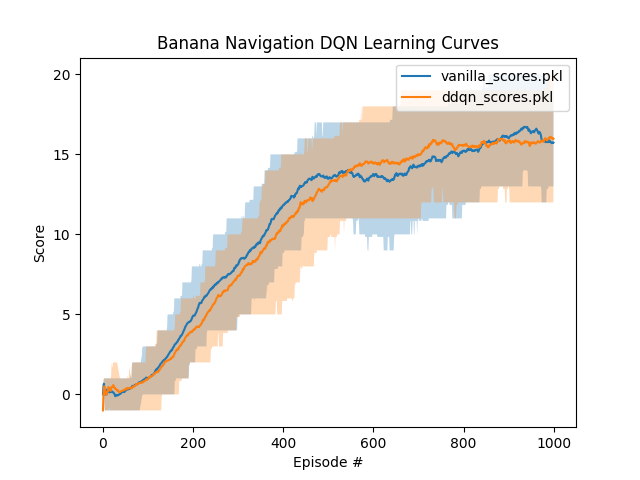
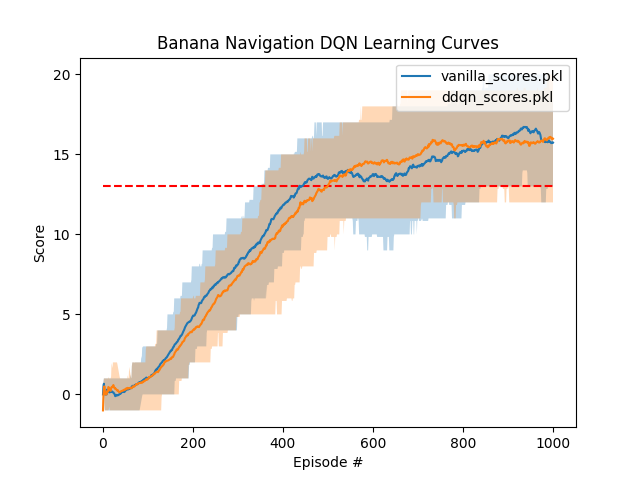
updating report

diff --git a/p1_navigation/training_analysis.py b/p1_navigation/training_analysis.py
@@ -3,7 +3,7 @@ import pickle
 import matplotlib.pyplot as plt
 import sys
 
-def plot_results(scores_list, window_len=100):
+def plot_results(scores_list, threshold=13.0, window_len=100):
     """ Plot and analyze training results
 
     Params
@@ -35,6 +35,8 @@ def plot_results(scores_list, window_len=100):
         # ax.fill_between(np.arange(len(scores)), mv_avg-mv_std, mv_avg+mv_std, alpha=0.3)
         ax.fill_between(np.arange(len(scores)), mv_q16, mv_q84, alpha=0.3)
 
+    # plot success threshold
+    plt.hlines(threshold, 0, len(scores), colors='r', linestyles='dashed')
     plt.title('Banana Navigation DQN Learning Curves')
     plt.ylabel('Score')
     plt.xlabel('Episode #')

diff --git a/p1_navigation/Report.md b/p1_navigation/Report.md
@@ -43,4 +43,10 @@ The following hyperparameters were used during training:
 
 ![DQN Learning Curves][image1]
 
+In the above plot we see the results of training a "vanilla" Deep Q-Network agent as well as a Double Deep Q-Network (DDQN). The trend lines show the moving average reward over the last 100 episodes with the shaded region indicating the range between the 16\% and 84\% quantile (approximately one standard deviation if score distribution were normal). 
+We see that, for this particular environment, DDQN does not appear to provide any notable benefit over "vanilla" DQN. Both approaches successfully "solve" the environment (i.e. achieve average rewards of +13) in less than 500 episodes and have similar spreads for their 16-84 quantile range.
+
+
 ## Ideas for Future Work
+
+The most interesting future work would be to compare the vanilla and DDQN results with an implementation of the [Rainbow](https://www.aaai.org/ocs/index.php/AAAI/AAAI18/paper/viewPaper/17204) algorithm improvements for DQN.
